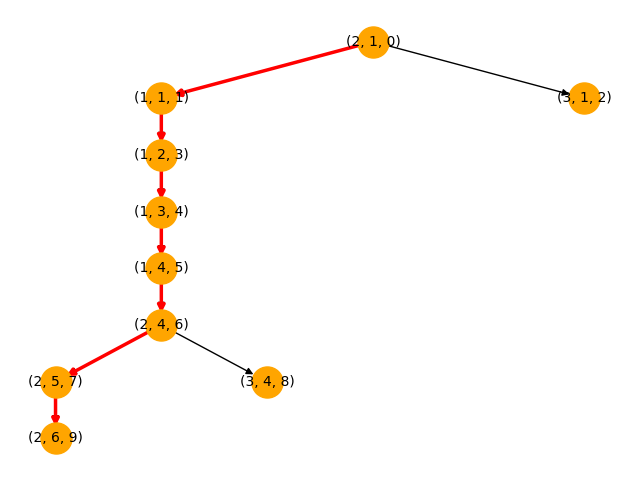
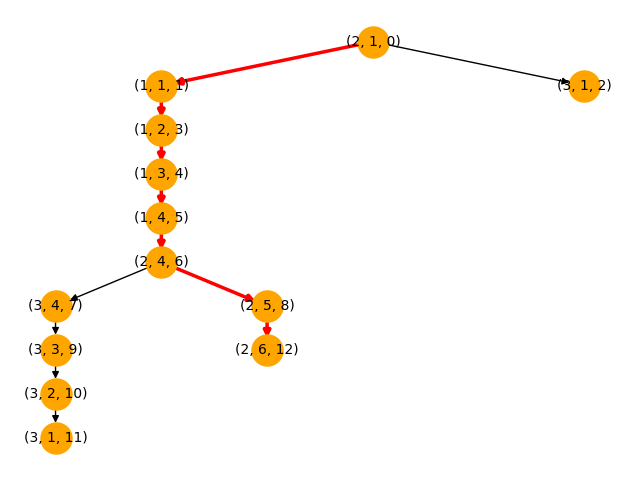
correcion_limitada_profundidad

diff --git a/busquedas_no_informadas/limitada_profundidad.py b/busquedas_no_informadas/limitada_profundidad.py
@@ -11,6 +11,7 @@ mapa = []
 visitado = [[False for _ in range(105)] for _ in range(105)]  # Matriz para los nodos visitados
 padres = {}  # Diccionario para registrar el árbol de búsqueda
 arbol = nx.DiGraph()  # Grafo dirigido para representar el árbol de búsqueda
+arbol_conexiones = []  # Lista para almacenar las conexiones del árbol
 
 
 def leer_datos():
@@ -28,11 +29,9 @@ def leer_datos():
 
     
     mapa = [['' for _ in range(m + 1)] for _ in range(n + 1)]
-    print(mapa)
     for i in range(0, n+1):
         mapa[i] = list(input(f"Ingrese la fila {i} del mapa: ").strip())
-        print(mapa)
-    print("")
+    
 
 def extraer_datos(mapa, inicio, meta):
     global n, m, fila_inicio, columna_inicio, fila_final, columna_final
@@ -49,31 +48,30 @@ def es_valido(fila, colum):
 def reconstruir_camino(nodo):
     camino = []
     while nodo is not None:
-        camino.append((nodo.fila + 1, nodo.colum + 1))
-        nodo = padres.get((nodo.fila, nodo.colum), None)
+        camino.append((nodo.fila + 1, nodo.colum + 1, nodo.id))
+        nodo = padres.get((nodo.fila, nodo.colum, nodo.id), None)
     camino.reverse()
     return camino
 
-def dls_limitProfundidad(mapita, inicio, meta):
+def dls_limitProfundidad():
 
-    #leer_datos()
-    extraer_datos(mapita, inicio, meta)
+    leer_datos()
+    #extraer_datos(mapita, inicio, meta)
 
     pila = []
-    padre = Nodo(fila_inicio, columna_inicio)
+    padre = Nodo(fila_inicio, columna_inicio, 0)
     pila.append((padre, 0))  # Añadir nodo inicial con profundidad 0
-    padres[(fila_inicio, columna_inicio)] = None
-    arbol.add_node((padre.fila, padre.colum))
+    padres[(fila_inicio, columna_inicio, 0)] = None
+    arbol.add_node((padre.fila, padre.colum, padre.id))
 
     while pila:
-        print("Pila:", pila)
         padre, profundidad = pila.pop()  # Sacar el nodo y su profundidad
 
         if padre.fila == fila_final and padre.colum == columna_final:
             print("Pasos para llegar a la meta:", padre.pasos)
             caminito = reconstruir_camino(padre)
             print("Camino:", caminito)
-            dibujar_arbol()
+            visualizar_arbol_jerarquico(arbol_conexiones, fila_inicio +1 , columna_inicio + 1, 0, caminito)
             return
 
         if profundidad >= profundidad_maxima:
@@ -81,7 +79,6 @@ def dls_limitProfundidad(mapita, inicio, meta):
 
         if not visitado[padre.fila][padre.colum]:  
             visitado[padre.fila][padre.colum] = True  
-            print("hola")
             hijos_temp = []  # Lista temporal para almacenar los hijos
             # Exploramos en el orden deseado: arriba, derecha, abajo, izquierda
             for movimiento in [(-1, 0), (1, 0), (0, -1), (0, 1)]:  
@@ -91,18 +88,19 @@ def dls_limitProfundidad(mapita, inicio, meta):
                 if es_valido(nueva_fila, nueva_colum):
                     hijo = Nodo(nueva_fila, nueva_colum, padre.pasos + 1)
                     hijos_temp.append((hijo, profundidad + 1))  # Añadir nodo hijo a la lista temporal
-                    padres[(hijo.fila, hijo.colum)] = padre
-                    arbol.add_node((hijo.fila+1, hijo.colum+1))
-                    arbol.add_edge((padre.fila+1, padre.colum+1), (hijo.fila+1, hijo.colum+1))
+                    padres[(hijo.fila, hijo.colum, hijo.id)] = padre
+                    arbol.add_node((hijo.fila+1, hijo.colum+1, hijo.id))
+                    arbol.add_edge((padre.fila+1, padre.colum+1, padre.id), (hijo.fila+1, hijo.colum+1, hijo.id))
+                    arbol_conexiones.append(((padre.fila+1, padre.colum + 1, padre.id), (hijo.fila + 1, hijo.colum + 1, hijo.id)))
+                    visualizar_arbol_jerarquico(arbol_conexiones, fila_inicio + 1, columna_inicio + 1, 0, [])
 
             # Invertir el orden de los hijos antes de añadirlos a la pila
             for hijo in reversed(hijos_temp):
                 pila.append(hijo)
 
     print("No se puede llegar a la meta o se alcanzó el límite de profundidad")
-    dibujar_arbol()
 
-
+"""
 def dibujar_arbol_grafo(nodo, x=0, y=0, dx=7, dy=3, ax=None, posiciones=None, nivel=0):
     if ax is None:
         fig, ax = plt.subplots()
@@ -133,6 +131,6 @@ def dibujar_arbol():
     dibujar_arbol_grafo((fila_inicio + 1 , columna_inicio + 1))
     plt.title("Árbol de Búsqueda DFS(Limitada por Profundidad)\n")
     plt.show()
-
-#if __name__ == "__main__":
-#   dls_limitProfundidad()
+"""
+if __name__ == "__main__":
+   dls_limitProfundidad()
